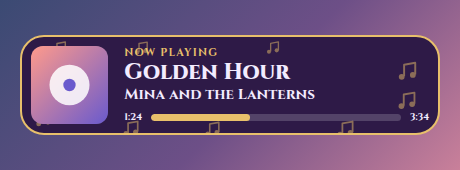
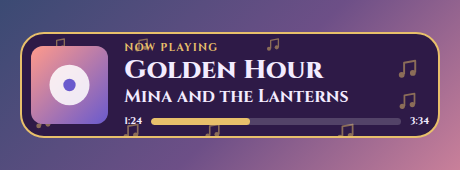
Make Now Playing's title and artist bigger, and the label optional
The small Now playing line above the title can now be switched off with
one checkbox, instead of by clearing its text, for the card that just
wants the song and the artist.

The title and the artist are larger by default, so they read from
further away, and the artist has its own size setting beside the
title's. The pictures in the README are drawn again to match, and the
card still fits all 120 box sizes.

diff --git a/overlays/now-playing/test/test-widget.js b/overlays/now-playing/test/test-widget.js
@@ -187,6 +187,8 @@ const lfTrack = (o) => Object.assign({ name: "Song", artist: { "#text": "Band" }
   await load(cfgLf({ showArt: false })); ok(E("np-art-wrap").hidden, "the art can be left off");
   await load(cfgLf({ artShape: "round" })); ok(E("np-app").classList.contains("round-art"), "or round");
   await load(cfgLf({ labelPlaying: "" })); ok(label() === "", "the line above the title can be blank");
+  await load(cfgLf()); ok(label() === "Now playing", "and shows by default");
+  await load(cfgLf({ showLabel: false })); ok(label() === "" && E("np-label").hidden, "or can be taken off with one checkbox");
   await load(cfgLf({ labelPlaying: "Listening to" })); ok(label() === "Listening to", "or anything you like");
   net(() => ({ json: tunaJson({ status: "paused" }) })); await load({ source: "tuna", showPaused: false }); ok(gone(), "paused can be treated as nothing playing");
   net(() => ({ json: lastfmJson([lfTrack({ "@attr": undefined })]) })); await load(cfgLf({ idleText: "Nothing on right now" })); ok(!gone() && title() === "Nothing on right now" && artist() === "" && E("np-art-wrap").hidden && E("np-progress").hidden, "when nothing is playing it can say so, with nothing else on the card");
@@ -196,6 +198,10 @@ const lfTrack = (o) => Object.assign({ name: "Song", artist: { "#text": "Band" }
   await load(cfgLf({ textSize: 7, titleScale: 2, artSize: 6 }));
   const v = env.vars("np-app"); ok(v["--np-size"] === "7cqw" && v["--np-title"] === 2 && v["--np-art"] === 6, "the sizes are settings");
   await load(cfgLf({ titleScale: 99, artSize: 99 })); ok(env.vars("np-app")["--np-title"] === 3 && env.vars("np-app")["--np-art"] === 10, "within limits");
+  await load(cfgLf()); ok(env.vars("np-app")["--np-title"] === 1.5 && env.vars("np-app")["--np-artist"] === 1, "the title and the artist are bigger than the card's own text by default (" + env.vars("np-app")["--np-title"] + ", " + env.vars("np-app")["--np-artist"] + ")");
+  await load(cfgLf({ artistScale: 2 })); ok(env.vars("np-app")["--np-artist"] === 2, "and the artist's size is a setting");
+  await load(cfgLf({ artistScale: 99 })); ok(env.vars("np-app")["--np-artist"] === 3, "within limits");
+  await load(cfgLf({ artistScale: 0 })); ok(env.vars("np-app")["--np-artist"] === 0.5, "both ways");
   await load(cfgLf({ themePreset: "pride" })); ok(String(env.vars("np-app")["--w-flag"]).indexOf("linear-gradient(180deg") === 0, "a pride preset's bar wears its flag");
   await env.checkPresets("np-app");
   await env.checkFrame("np-app");

diff --git a/overlays/now-playing/widget/widget.js b/overlays/now-playing/widget/widget.js
@@ -370,12 +370,14 @@
     c.showAlbum = bool(f.showAlbum, false);
     c.showProgress = bool(f.showProgress, true);
     c.showPaused = bool(f.showPaused, true);
+    c.showLabel = bool(f.showLabel, true);
     c.labelPlaying = txt(f.labelPlaying, "Now playing");
     c.labelPaused = txt(f.labelPaused, "Paused");
     c.idleText = trim(txt(f.idleText, ""));
     c.showProblems = bool(f.showProblems, false);
     c.textSize = Math.max(2, num(f.textSize, 4.2));
-    c.titleScale = clamp(num(f.titleScale, 1.25), 0.5, 3);
+    c.titleScale = clamp(num(f.titleScale, 1.5), 0.5, 3);
+    c.artistScale = clamp(num(f.artistScale, 1), 0.5, 3);
     c.scrollSpeed = clamp(num(f.scrollSpeed, 1), 0.3, 3);
     c.artSize = clamp(num(f.artSize, 4.4), 2, 10);
     return c;
@@ -602,7 +604,7 @@
       fit();
       return;
     }
-    show(el.label, t.playing ? cfg.labelPlaying : cfg.labelPaused);
+    show(el.label, cfg.showLabel ? (t.playing ? cfg.labelPlaying : cfg.labelPaused) : "");
     show(el.title, t.title);
     show(el.artist, t.artist);
     show(el.album, cfg.showAlbum ? t.album : "");
@@ -628,6 +630,7 @@
     var s = el.app.style;
     s.setProperty("--np-size", cfg.textSize + "cqw");
     s.setProperty("--np-title", cfg.titleScale);
+    s.setProperty("--np-artist", cfg.artistScale);
     s.setProperty("--np-art", cfg.artSize);
   }
 

diff --git a/overlays/now-playing/widget/widget.css b/overlays/now-playing/widget/widget.css
@@ -79,13 +79,13 @@
 /* One line each, whatever the name, so the card keeps the size the box gives it. A name that is too long slides along its line
    (see .np-run), and with Animate off, where nothing may move, it is cut short with dots instead. */
 .np-title {
-  font-size: calc(1em * var(--np-title, 1.25));
+  font-size: calc(1em * var(--np-title, 1.5));
   font-weight: var(--w-weight);
   overflow: hidden;
   text-overflow: ellipsis;
   white-space: nowrap;
 }
-.np-artist { font-size: 0.85em; font-weight: 700; overflow: hidden; text-overflow: ellipsis; white-space: nowrap; }
+.np-artist { font-size: calc(1em * var(--np-artist, 1)); font-weight: 700; overflow: hidden; text-overflow: ellipsis; white-space: nowrap; }
 .np-album { font-size: 0.65em; font-weight: 700; opacity: 0.85; overflow: hidden; text-overflow: ellipsis; white-space: nowrap; }
 .np-run.scrolls {
   display: inline-block;

diff --git a/overlays/now-playing/README.md b/overlays/now-playing/README.md
@@ -9,7 +9,7 @@ It is a single self-contained widget in plain JavaScript, with no dependencies a
 ## Features
 
 - Four ways to read what is playing: Last.fm, Tuna, Spotify and Pear Desktop, chosen with one setting. Each is explained below, and which one suits you depends on the player and on whether you want to sign in to anything.
-- The album art, the title, the artist and, if you like, the album, with a small line above that says Now playing or Paused in your own words.
+- The album art, the title, the artist and, if you like, the album, with a small line above that says Now playing or Paused in your own words, or none at all, since it can be switched off. The title and the artist are large enough to read from across the room, and each has its own size setting.
 - A progress bar with the times, which keeps moving between reads, so it stays smooth. It needs a source that says how far through the track it is, which is every source except Last.fm.
 - A track that is paused can stay on the card with its own line, or count as nothing playing. When nothing is playing the card fades away, or says what you choose, such as "Nothing on right now".
 - Hide and show it from chat: `!nowplaying off` and `!nowplaying on`, for you and your moderators. It stays hidden if the overlay is refreshed.
@@ -157,8 +157,8 @@ Every setting has a plain label in StreamElements, grouped as follows.
 | Source | Which source to read from, and how often. |
 | Last.fm, Tuna, Pear Desktop, Spotify | The details each source needs. |
 | Commands | The command word and who may use it. |
-| Card | The art and its shape, the album, the progress bar, the lines above the title, what to do when paused, and what to say when nothing is playing. |
-| Size | Text size, the title's size, the art's size, and how fast a long name scrolls. |
+| Card | The art and its shape, the album, the progress bar, whether to show the small line above the title and what it says, what to do when paused, and what to say when nothing is playing. |
+| Size | Text size, the title's size, the artist's size, the art's size, and how fast a long name scrolls. |
 | Look | The style preset, font, boldness, corners, padding, outer frame, outline, shadow, Animate and whether the card shrinks to fit the box. |
 | Custom colours | Panel, text, accent, bar track and note colours, used when the style preset is Custom. |
 | Decorations | The shape, where they go, how many, how big, how solid, their colour, and how they move. |
